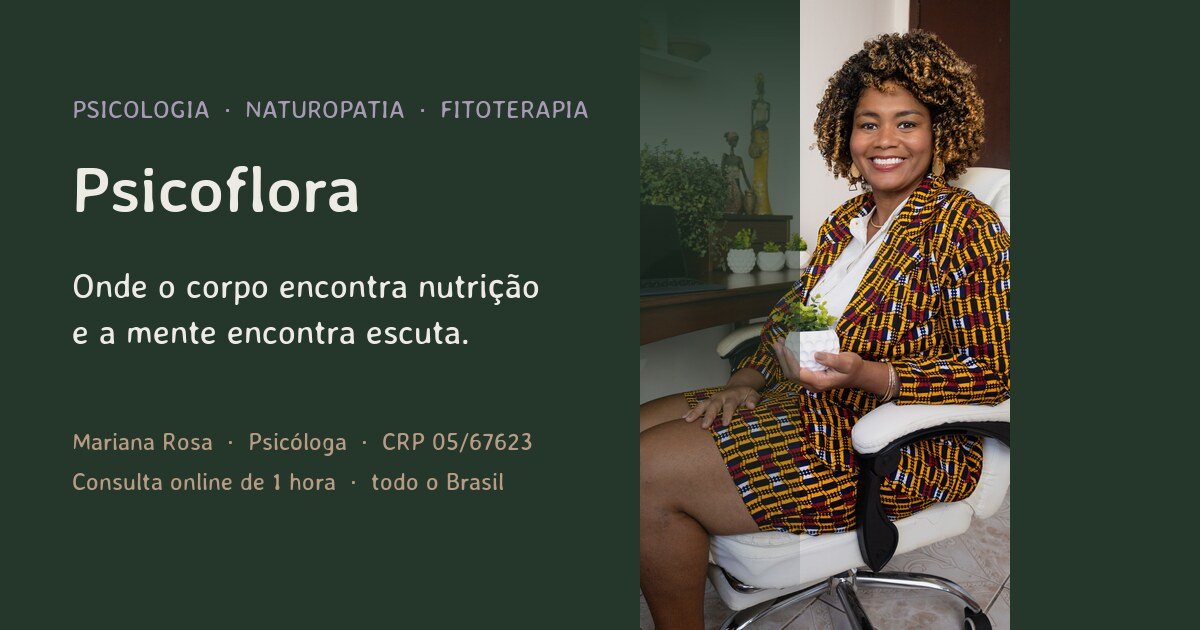
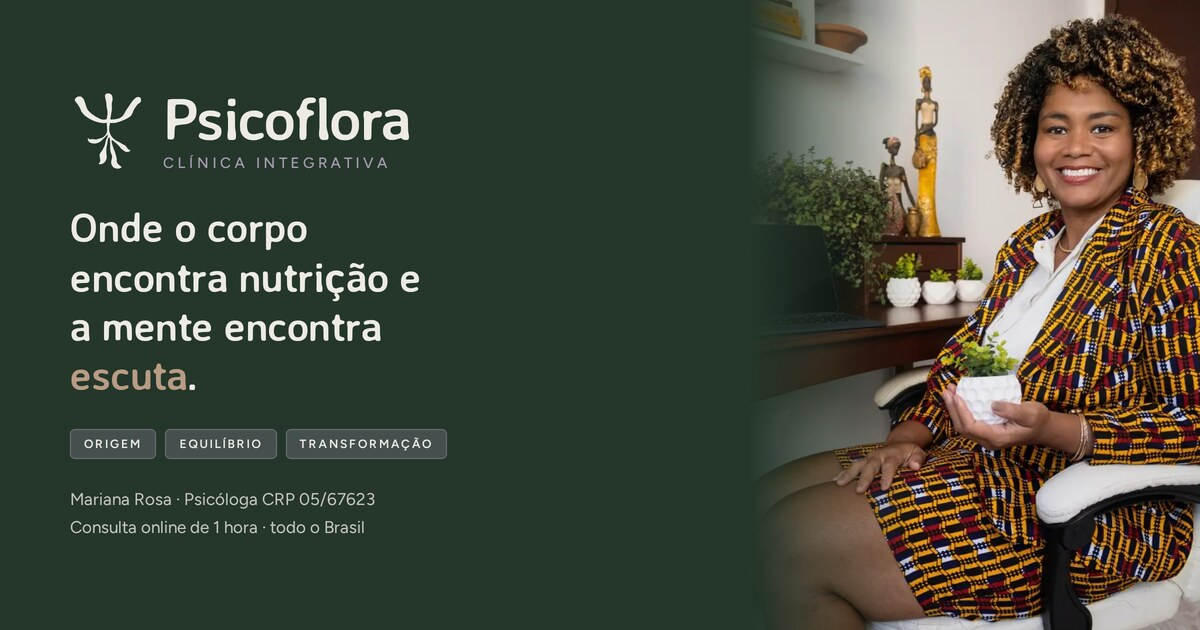
Imagem social refeita com o simbolo e o par tipografico novo
O preview.jpg era anterior ao redesenho: nao trazia o logomark e usava
Averia tambem no texto de apoio. Agora traz o simbolo vetorial, Averia
so na marca e no titulo, Figtree no restante, e as pilulas dos tres
pilares. Montado a 1200x630 em 2x com as fontes reais.

diff --git a/index.html b/index.html
@@ -105,7 +105,7 @@
 <meta property="og:image" content="https://psicoflora.com.br/preview.jpg">
 <meta property="og:image:width" content="1200">
 <meta property="og:image:height" content="630">
-<meta property="og:image:alt" content="Psicoflora — Mariana Rosa, psicóloga, ao lado da frase: onde o corpo encontra nutrição e a mente encontra escuta.">
+<meta property="og:image:alt" content="Psicoflora, clínica integrativa — Mariana Rosa, psicóloga, ao lado do símbolo da marca">
 <meta name="twitter:card" content="summary_large_image">
 <meta name="twitter:title" content="Psicoflora — onde o corpo encontra nutrição e a mente encontra escuta">
 <meta name="twitter:description" content="Atendimento online para todo o Brasil. Psicologia integrativa com naturopatia e fitoterapia, em consultas de 1 hora.">
